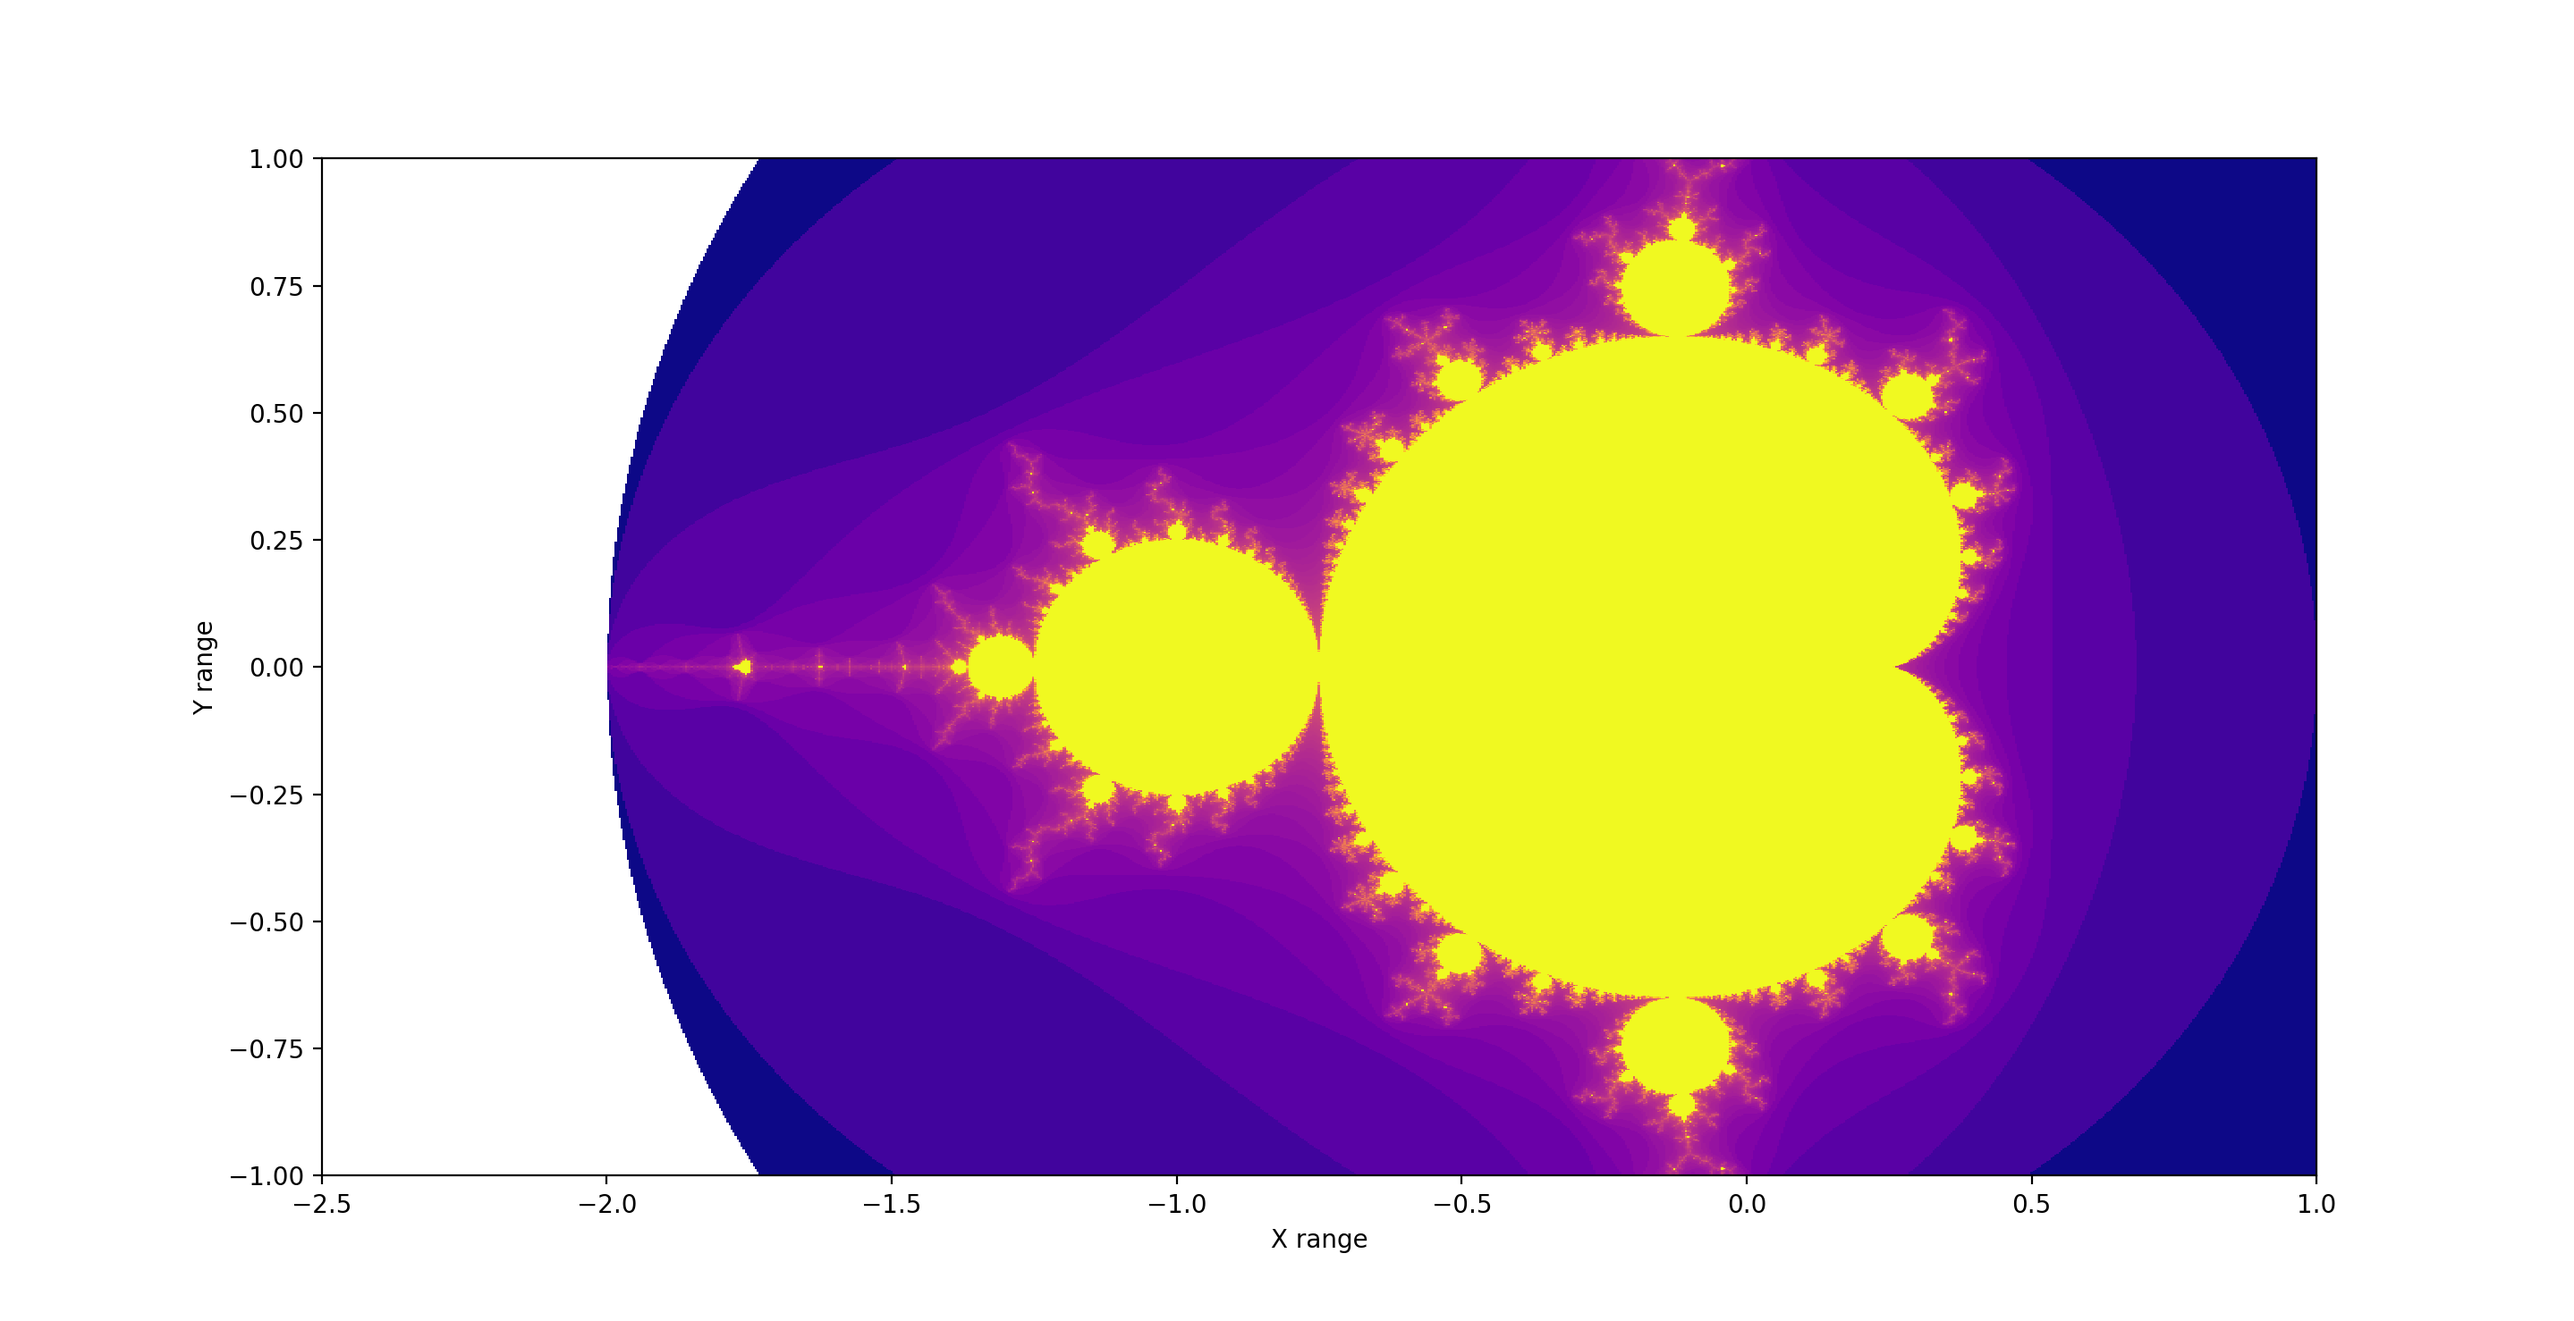
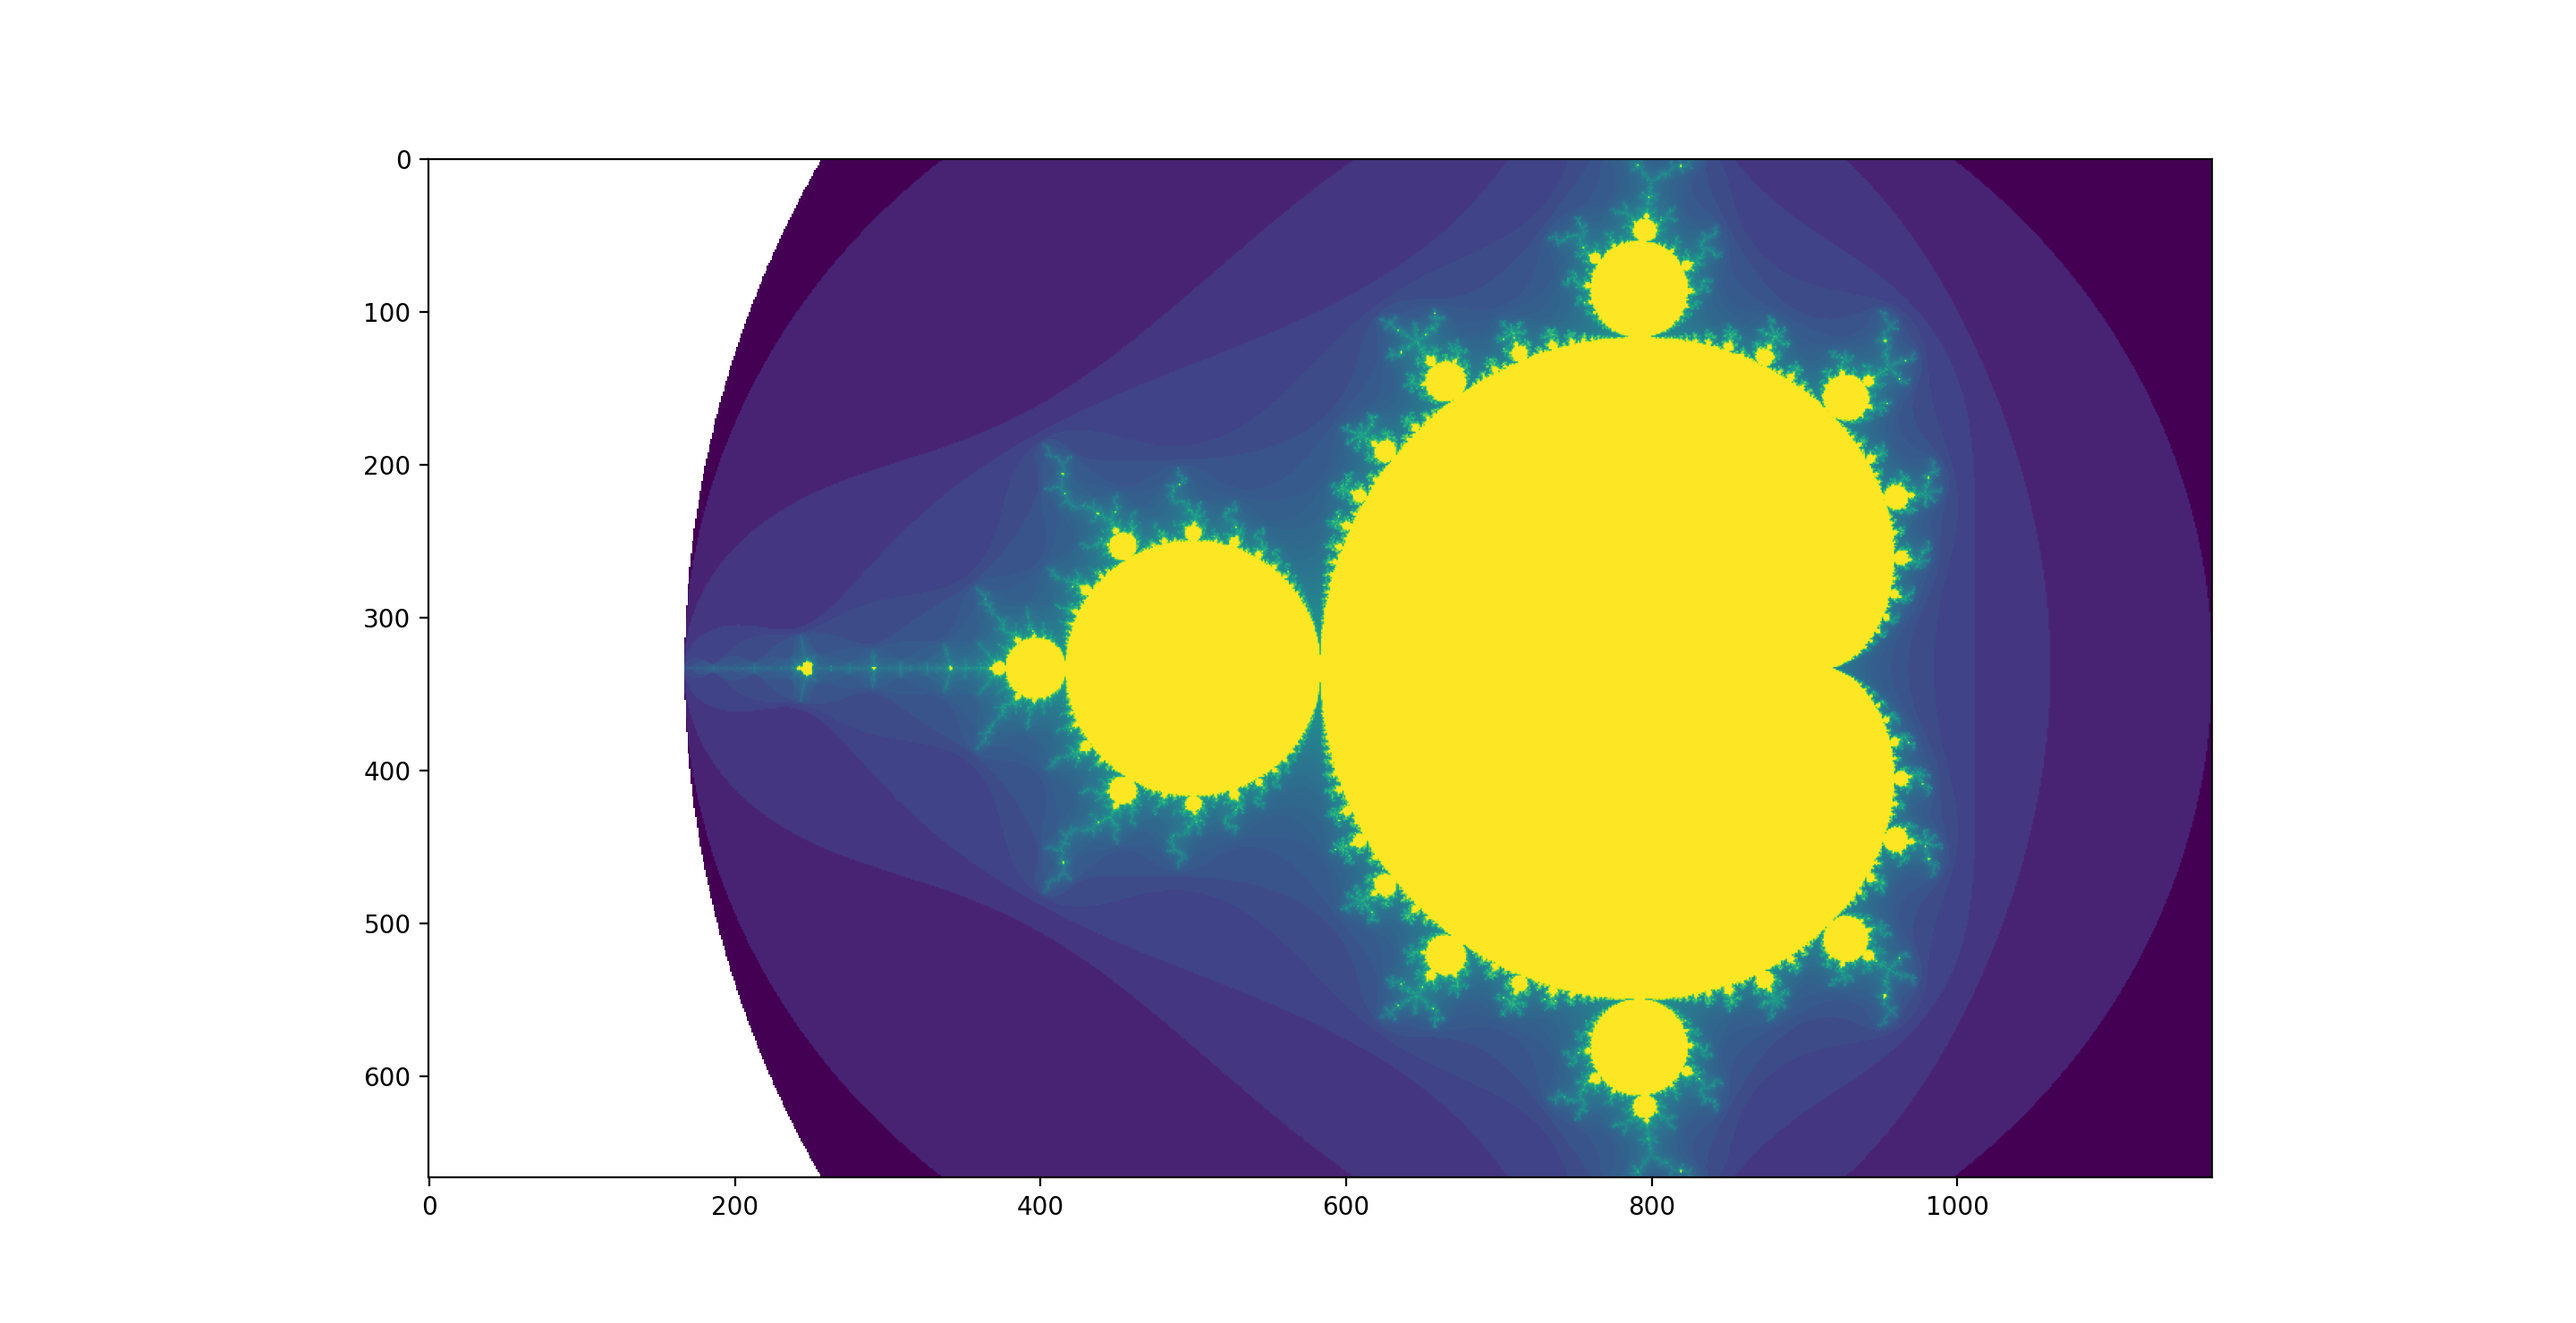
Add files via upload

diff --git a/plotc.py b/plotc.py
@@ -1,5 +1,7 @@
 import numpy as np
 from matplotlib import pyplot as plt
 result = np.loadtxt("fractal.csv",delimiter=',')
+#plot on log scale
+result = np.log(result)
 plt.imshow(result)
 plt.show()

diff --git a/fractal_zoom.c b/fractal_zoom.c
@@ -107,6 +107,6 @@ void fractal_zoom(int max_iters, double increment) {
 
 int main() {
     printf("hello world\n");
-    fractal_zoom(1000,0.005);
+    fractal_zoom(1000,0.002);
     return 0;
 }
